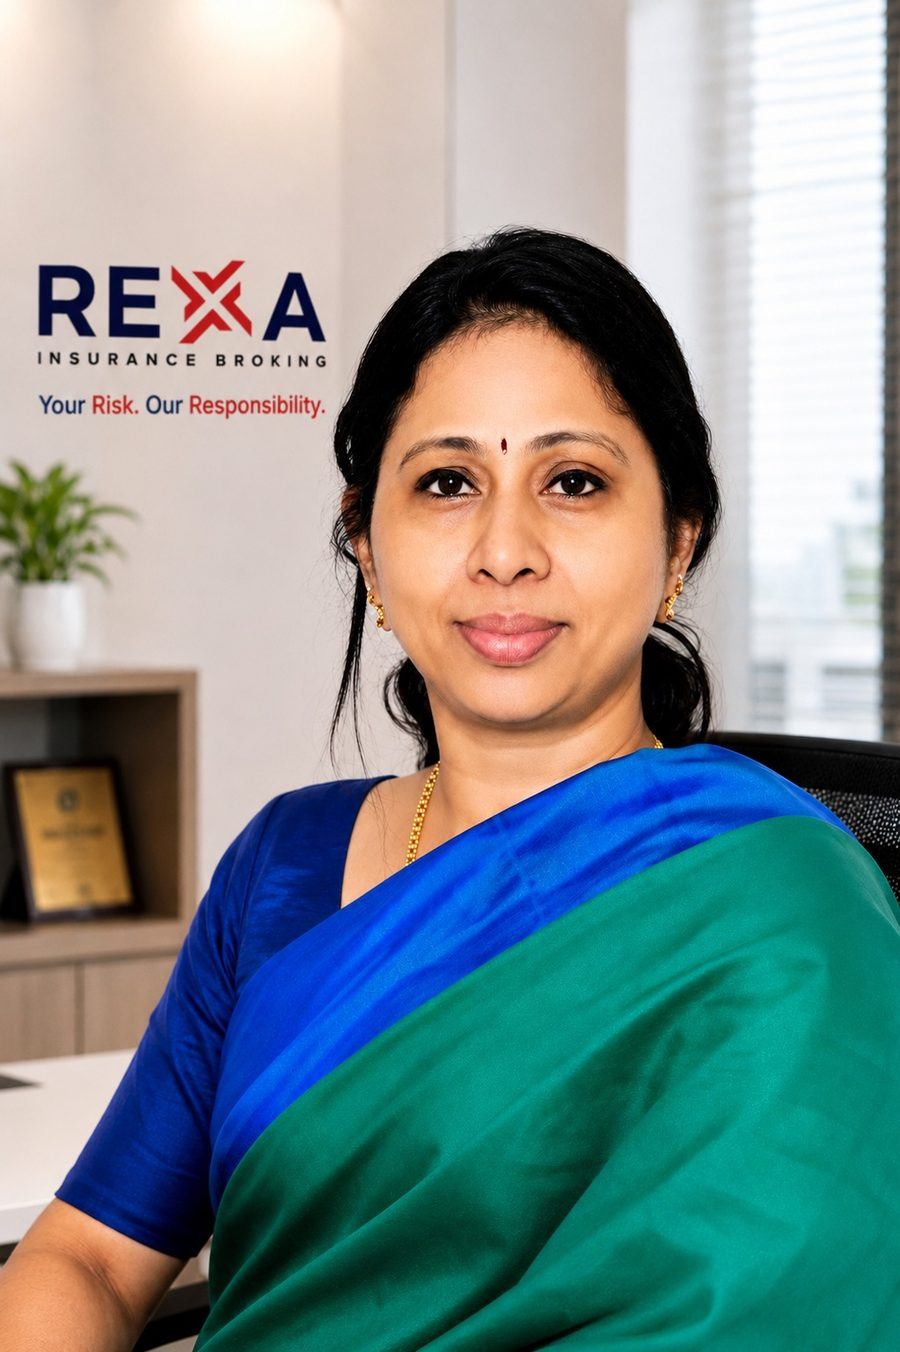
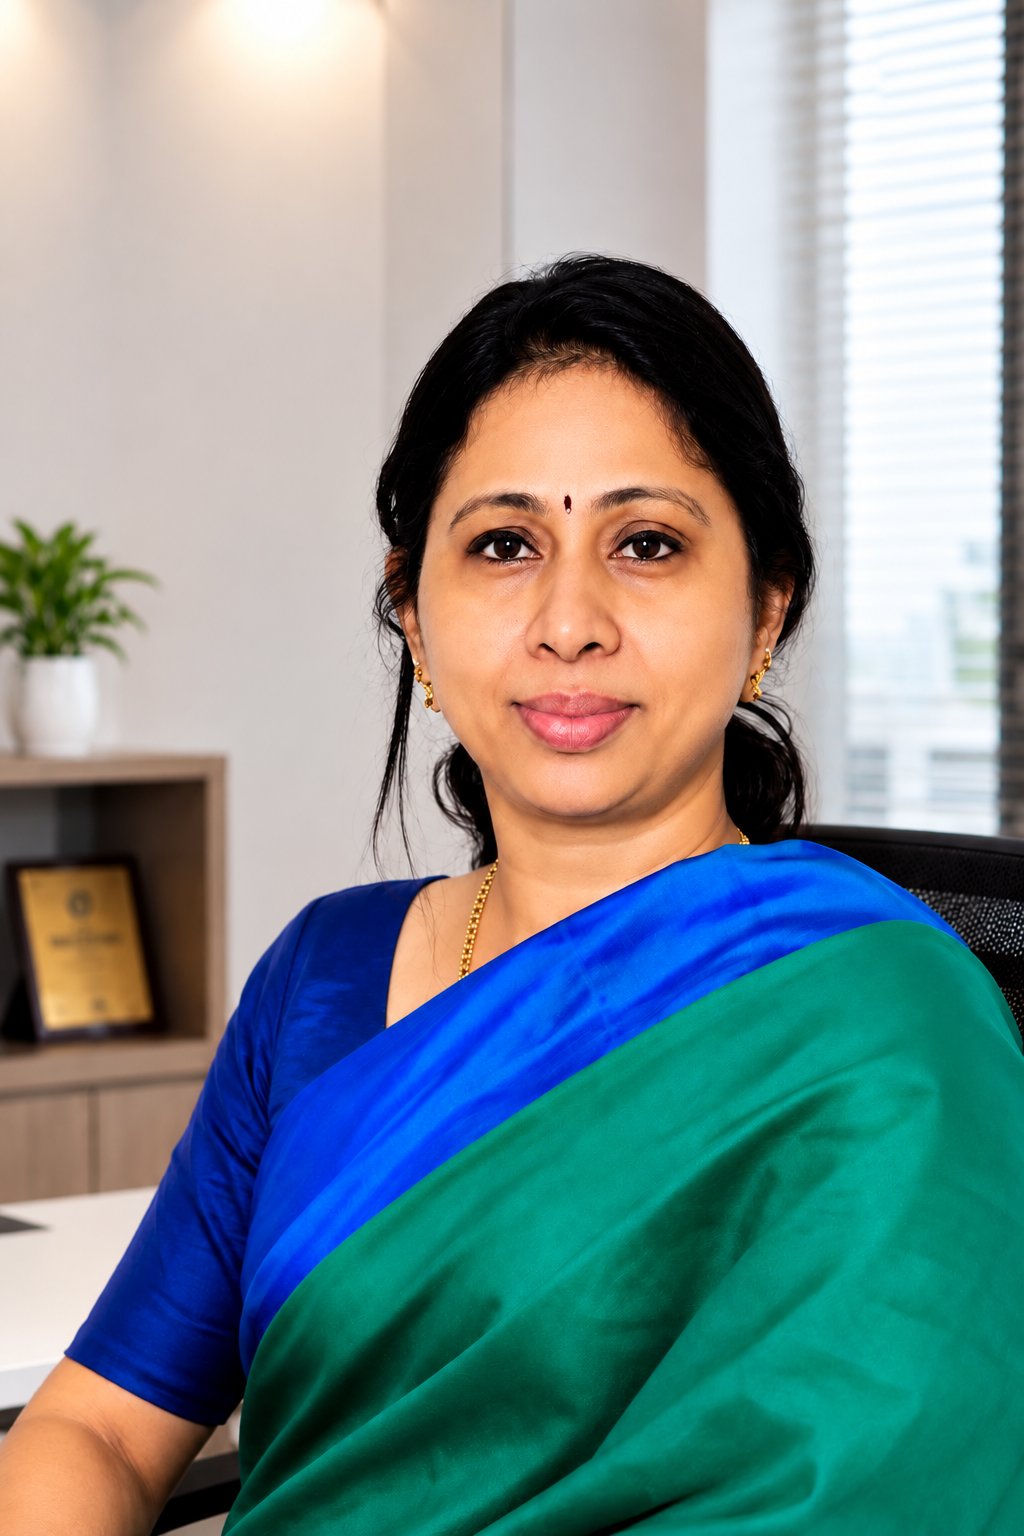
Update team member profiles and add bio modal functionality

diff --git a/about.html b/about.html
@@ -162,17 +162,7 @@
         </div>
       </div>
 
-      <div class="team-card reveal">
-        <div class="team-photo team-photo-fallback"><span>NR</span></div>
-        <div class="team-info">
-          <div class="team-name">N. Ravichandran</div>
-          <div class="team-role">Founder | Director</div>
-          <div class="team-exp"><span>32</span> Years Experience</div>
-          <div class="team-prev">Central Government Sector</div>
-        </div>
-      </div>
-
-      <div class="team-card reveal">
+      <div class="team-card reveal" data-bio="manish">
         <div class="team-photo">
           <img src="assets/team/manish-chavan.jpg" alt="Manish Chavan, Key Management Person at Rexa" loading="lazy">
         </div>
@@ -181,12 +171,62 @@
           <div class="team-role">Key Management Person</div>
           <div class="team-exp"><span>20+</span> Years Experience</div>
           <div class="team-prev">ING Vysya &middot; HDFC ERGO &middot; Reliance General Insurance</div>
+          <button class="team-read-more" type="button">Read More</button>
+        </div>
+      </div>
+
+      <div class="team-card reveal" data-bio="sathya">
+        <div class="team-photo">
+          <img src="assets/team/Sathyanarayana K.jpeg" alt="Sathyanarayana K, Key Management Person at Rexa" loading="lazy">
+        </div>
+        <div class="team-info">
+          <div class="team-name">Sathyanarayana K</div>
+          <div class="team-role">Key Management Person</div>
+          <div class="team-exp"><span>20+</span> Years Experience</div>
+          <div class="team-prev">ICICI Lombard &middot; Bharti AXA GIC</div>
+          <button class="team-read-more" type="button">Read More</button>
         </div>
       </div>
 
     </div>
+
+    <!-- Founder Section -->
+    <div class="founder-card reveal">
+      <div class="founder-accent"></div>
+      <div class="founder-content">
+        <h3 class="founder-name">N. Ravichandran</h3>
+        <p class="founder-role">Founder | Director</p>
+        <p class="founder-info">32 Years Experience</p>
+        <p class="founder-info">Central Government Sector</p>
+      </div>
+    </div>
   </div>
 </section>
+
+<!-- BIO MODAL -->
+<div id="bioModal" class="bio-modal">
+  <div class="bio-modal-content">
+    <button class="bio-modal-close" type="button">&times;</button>
+    <div class="bio-modal-body">
+      <div id="bioManish" class="bio-content">
+        <h2>Manish Chavan</h2>
+        <p class="bio-role">Key Management Person</p>
+        <p>A seasoned insurance industry professional with over 20 years of extensive experience across leading general insurance organizations in India. His career spans senior roles at reputed companies such as ING Vysya, HDFC ERGO, and Reliance General Insurance, where he has consistently driven growth, operational excellence, and customer-centric innovation.</p>
+        <p>With deep expertise across underwriting, distribution management, business development, and strategic partnerships, Manish brings a comprehensive understanding of both retail and corporate insurance landscapes. He has successfully led high-performing teams, built scalable distribution channels, and implemented strategies that strengthened market presence and profitability.</p>
+        <p>Known for his strong leadership and industry insight, Manish combines hands-on operational knowledge with a forward-looking strategic vision. His experience navigating evolving regulatory environments and dynamic market conditions makes him a valuable guiding force at the board level.</p>
+        <p>As KMP, Manish Chavan plays a pivotal role in shaping the company's long-term strategy, governance, and growth initiatives, ensuring sustainable value creation for stakeholders while maintaining the highest standards of professionalism and integrity.</p>
+      </div>
+      <div id="bioSathya" class="bio-content" style="display:none;">
+        <h2>Sathyanarayana K</h2>
+        <p class="bio-role">Key Management Person</p>
+        <p>A distinguished insurance industry veteran with over 20 years of comprehensive experience in general insurance operations across India's leading insurers. His professional journey encompasses strategic roles at prestigious organizations including ICICI Lombard and Bharti AXA GIC, where he has consistently delivered innovative solutions and driven sustainable business growth.</p>
+        <p>Sathyanarayana brings extensive expertise in risk assessment and customer relationship management. Throughout his career, he has been instrumental in building robust operational frameworks, enhancing customer experience, and implementing best-in-class insurance practices across multiple insurance verticals.</p>
+        <p>Recognized for his strategic thinking, Sathyanarayana combines deep functional knowledge with a customer-centric approach. His experience in managing complex insurance portfolios and navigating regulatory compliance makes him an invaluable asset in steering organizational strategy and excellence.</p>
+        <p>As KMP, Sathyanarayana K contributes significantly to the company's vision and long-term objectives, bringing data-driven insights and industry best practices to enhance stakeholder value while upholding the highest standards of operational integrity and professional ethics.</p>
+      </div>
+    </div>
+  </div>
+</div>
 
 <section class="section">
   <div class="wrap">

diff --git a/styles.css b/styles.css
@@ -1687,7 +1687,7 @@ body.modal-open { overflow: hidden }
   position: relative; aspect-ratio: 3 / 4; overflow: hidden; background: var(--paper-2);
 }
 .team-photo img {
-  width: 100%; height: 100%; object-fit: cover; object-position: center 15%;
+  width: 100%; height: 120%; object-fit: cover; object-position: center 30%;
   display: block; transition: transform .6s cubic-bezier(.22,1,.36,1);
 }
 .team-card:hover .team-photo img { transform: scale(1.05) }
@@ -1698,6 +1698,66 @@ body.modal-open { overflow: hidden }
 .team-photo-fallback span {
   font-size: 2.4rem; font-weight: 900; letter-spacing: -.02em; color: #fff; opacity: .92;
 }
+.team-photo-badge {
+  display: grid; place-items: center;
+  background: linear-gradient(135deg, #0F5F72 0%, #137282 100%);
+}
+.badge-circle {
+  width: 120px; height: 120px; border-radius: 50%;
+  background: rgba(255, 255, 255, 0.15); backdrop-filter: blur(10px);
+  display: grid; place-items: center;
+  font-size: 2rem; font-weight: 900; color: #fff;
+  border: 2px solid rgba(255, 255, 255, 0.3);
+  box-shadow: 0 8px 32px 0 rgba(15, 95, 114, 0.37);
+}
+.team-card-text {
+  display: flex; align-items: center; justify-content: center;
+  min-height: auto; padding: 2rem;
+}
+.team-card-text .team-info {
+  padding: 0; text-align: center; flex: 1;
+}
+.team-card-text .team-name {
+  font-size: 1.3rem; margin-bottom: .4rem;
+}
+.team-card-text .team-role {
+  margin-bottom: .8rem;
+}
+.team-card-text .team-exp {
+  margin-bottom: .6rem;
+}
+.team-card-text .team-prev {
+  border: none; padding: 0; margin: 0;
+}
+
+/* Founder Card */
+.founder-card {
+  margin-top: 3rem; position: relative; overflow: hidden;
+  background: linear-gradient(135deg, rgba(207, 28, 34, 0.08) 0%, rgba(15, 95, 114, 0.05) 100%);
+  border: 1px solid var(--line); border-radius: var(--r-lg);
+  padding: 0;
+  display: flex;
+}
+.founder-accent {
+  width: 5px; background: linear-gradient(180deg, var(--red) 0%, var(--teal) 100%);
+  flex-shrink: 0;
+}
+.founder-content {
+  flex: 1; padding: 2rem;
+}
+.founder-name {
+  font-size: 1.3rem; font-weight: 800; color: var(--navy);
+  margin: 0 0 .4rem 0;
+}
+.founder-role {
+  font-size: .9rem; font-weight: 700; color: var(--red);
+  letter-spacing: .05em; text-transform: uppercase;
+  margin: 0 0 .8rem 0;
+}
+.founder-info {
+  font-size: .9rem; color: var(--ink-soft);
+  margin: .3rem 0;
+}
 .team-info { flex: 1; min-width: 0; padding: 1.6rem 1.8rem 1.8rem }
 .team-name { font-size: 1.15rem; font-weight: 800; color: var(--navy); margin-bottom: .2rem }
 .team-role { font-size: .76rem; font-weight: 700; letter-spacing: .1em; text-transform: uppercase; color: var(--red); margin-bottom: .9rem }
@@ -1707,6 +1767,33 @@ body.modal-open { overflow: hidden }
   font-size: .8rem; color: var(--ink-soft); line-height: 1.55;
   padding-top: .8rem; margin-top: .1rem; border-top: 1px solid var(--line);
 }
+.team-read-more {
+  margin-top: 1rem; padding: .5rem 1rem; background: var(--navy); color: #fff;
+  border: none; border-radius: var(--r); font-size: .85rem; font-weight: 600;
+  cursor: pointer; transition: background .3s;
+}
+.team-read-more:hover { background: var(--navy-2) }
+
+/* Bio Modal */
+.bio-modal {
+  display: none; position: fixed; top: 0; left: 0; width: 100%; height: 100%;
+  background: rgba(0,0,0,.6); z-index: 1000; align-items: center; justify-content: center;
+  padding: 2rem;
+}
+.bio-modal.open { display: flex }
+.bio-modal-content {
+  background: #fff; border-radius: var(--r-lg); max-width: 700px; width: 100%;
+  max-height: 80vh; overflow-y: auto; position: relative; padding: 2.4rem;
+}
+.bio-modal-close {
+  position: absolute; top: 1rem; right: 1rem; background: none; border: none;
+  font-size: 1.8rem; cursor: pointer; color: var(--ink-soft);
+}
+.bio-modal-close:hover { color: var(--navy) }
+.bio-content h2 { font-size: 1.8rem; margin-bottom: .5rem; color: var(--navy) }
+.bio-role { font-size: .9rem; font-weight: 700; color: var(--red); margin-bottom: 1.2rem }
+.bio-content p { font-size: .95rem; line-height: 1.7; color: var(--ink); margin-bottom: 1rem }
+.bio-content p:last-child { margin-bottom: 0 }
 
 /* ---- CTA block (sub-pages) ---- */
 .cta-block {

diff --git a/server.js b/server.js
@@ -1,5 +1,6 @@
 require('dotenv').config();
 const express = require('express');
+const path = require('path');
 const cors = require('cors');
 const helmet = require('helmet');
 const { contactRateLimiter } = require('./middleware/rateLimit');
@@ -41,9 +42,50 @@ app.use(cors(corsOptions));
 app.use(express.json({ limit: '10kb' }));
 app.use(express.urlencoded({ limit: '10kb', extended: true }));
 
+// Serve static files (CSS, images, logos, robots.txt, sitemap.xml, etc.)
+app.use(express.static(path.join(__dirname, '.')));
+
 // Health check endpoint
 app.get('/api/health', (req, res) => {
   res.status(200).json({ status: 'ok', timestamp: new Date().toISOString() });
+});
+
+// Redirect .html requests to clean URLs
+app.get('/:page.html', (req, res) => {
+  res.redirect(301, `/${req.params.page}`);
+});
+
+// Routes for HTML pages (clean URLs without .html)
+app.get('/', (req, res) => {
+  res.sendFile(path.join(__dirname, 'index.html'));
+});
+
+app.get('/contact', (req, res) => {
+  res.sendFile(path.join(__dirname, 'contact.html'));
+});
+
+app.get('/general', (req, res) => {
+  res.sendFile(path.join(__dirname, 'general.html'));
+});
+
+app.get('/life', (req, res) => {
+  res.sendFile(path.join(__dirname, 'life.html'));
+});
+
+app.get('/about', (req, res) => {
+  res.sendFile(path.join(__dirname, 'about.html'));
+});
+
+app.get('/privacy', (req, res) => {
+  res.sendFile(path.join(__dirname, 'privacy.html'));
+});
+
+app.get('/terms', (req, res) => {
+  res.sendFile(path.join(__dirname, 'terms.html'));
+});
+
+app.get('/grievance', (req, res) => {
+  res.sendFile(path.join(__dirname, 'grievance.html'));
 });
 
 // Contact form API with rate limiting

diff --git a/app.js b/app.js
@@ -838,3 +838,40 @@ function initRohini() {
 
 // Initialize Raksha
 initOffers();
+
+// Bio Modal functionality
+(function initBioModal() {
+  const modal = document.getElementById('bioModal');
+  if (!modal) return;
+
+  const closeBtn = modal.querySelector('.bio-modal-close');
+  const readMoreButtons = document.querySelectorAll('.team-read-more');
+
+  const openBio = (bioId) => {
+    document.querySelectorAll('.bio-content').forEach(el => el.style.display = 'none');
+    const bioContent = document.getElementById('bio' + bioId);
+    if (bioContent) {
+      bioContent.style.display = 'block';
+      modal.classList.add('open');
+    }
+  };
+
+  const closeBio = () => {
+    modal.classList.remove('open');
+  };
+
+  readMoreButtons.forEach(btn => {
+    btn.addEventListener('click', (e) => {
+      e.preventDefault();
+      const bioId = btn.closest('[data-bio]')?.getAttribute('data-bio');
+      if (bioId === 'manish') openBio('Manish');
+      if (bioId === 'sathya') openBio('Sathya');
+    });
+  });
+
+  closeBtn.addEventListener('click', closeBio);
+
+  modal.addEventListener('click', (e) => {
+    if (e.target === modal) closeBio();
+  });
+})();
